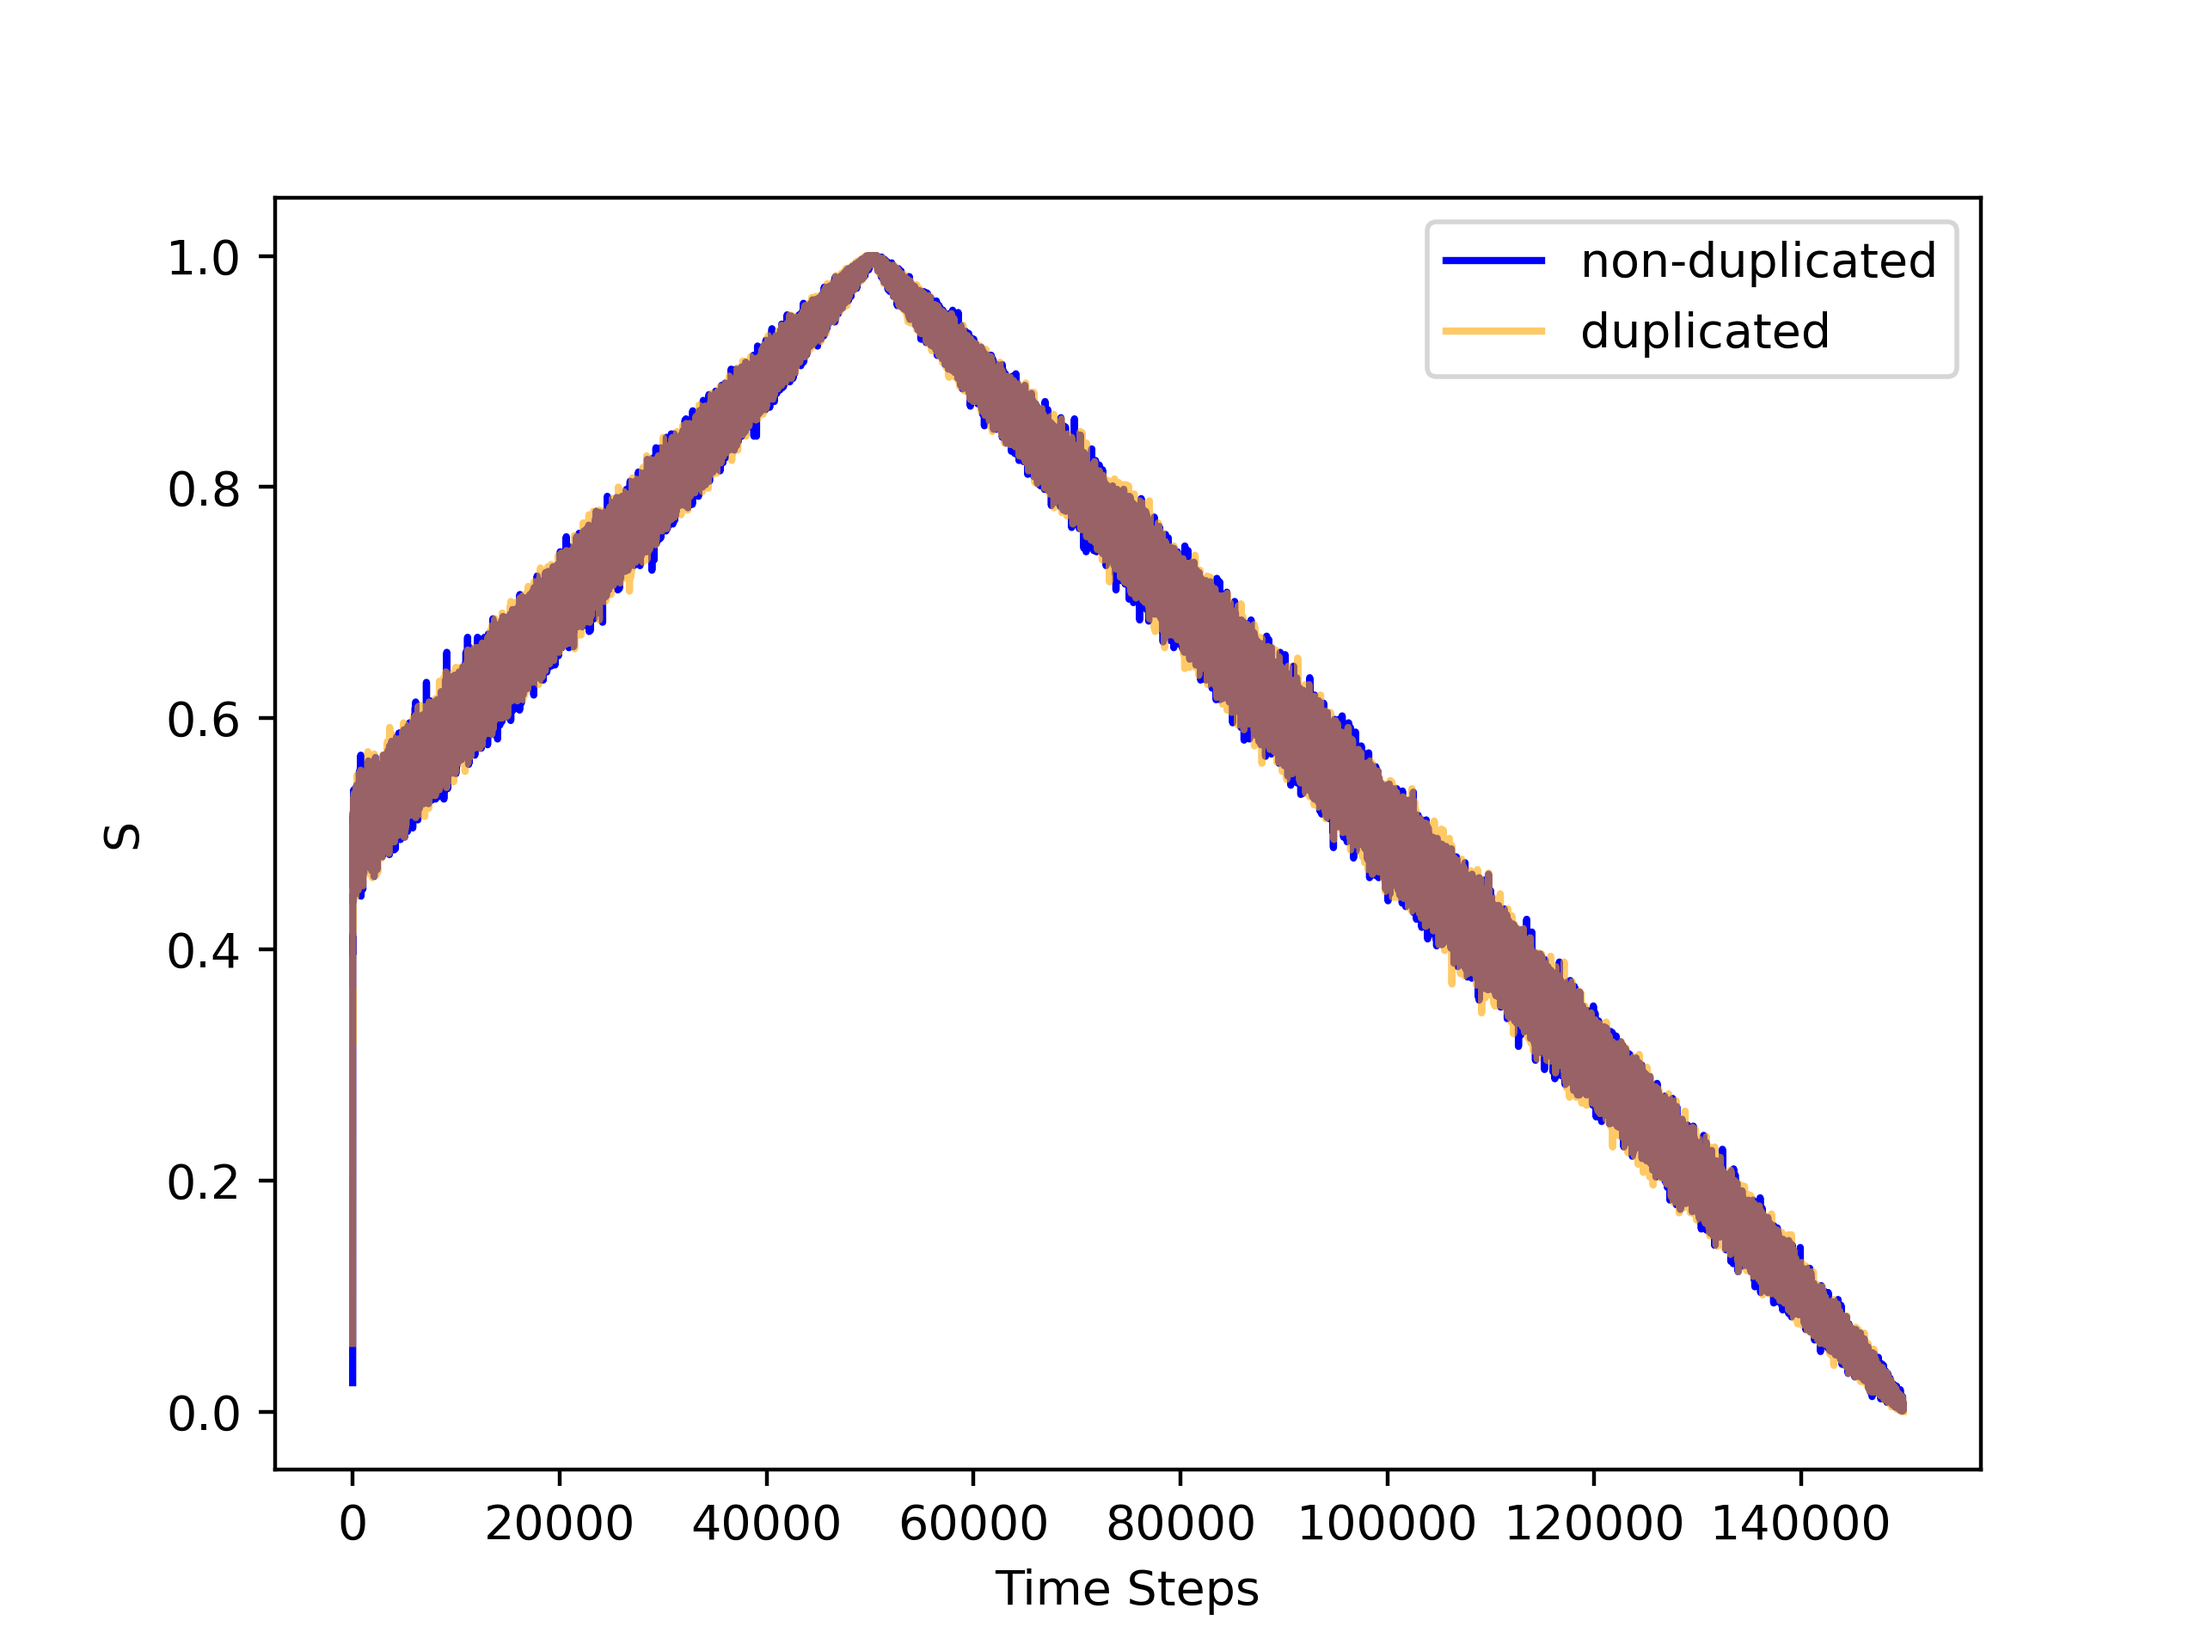
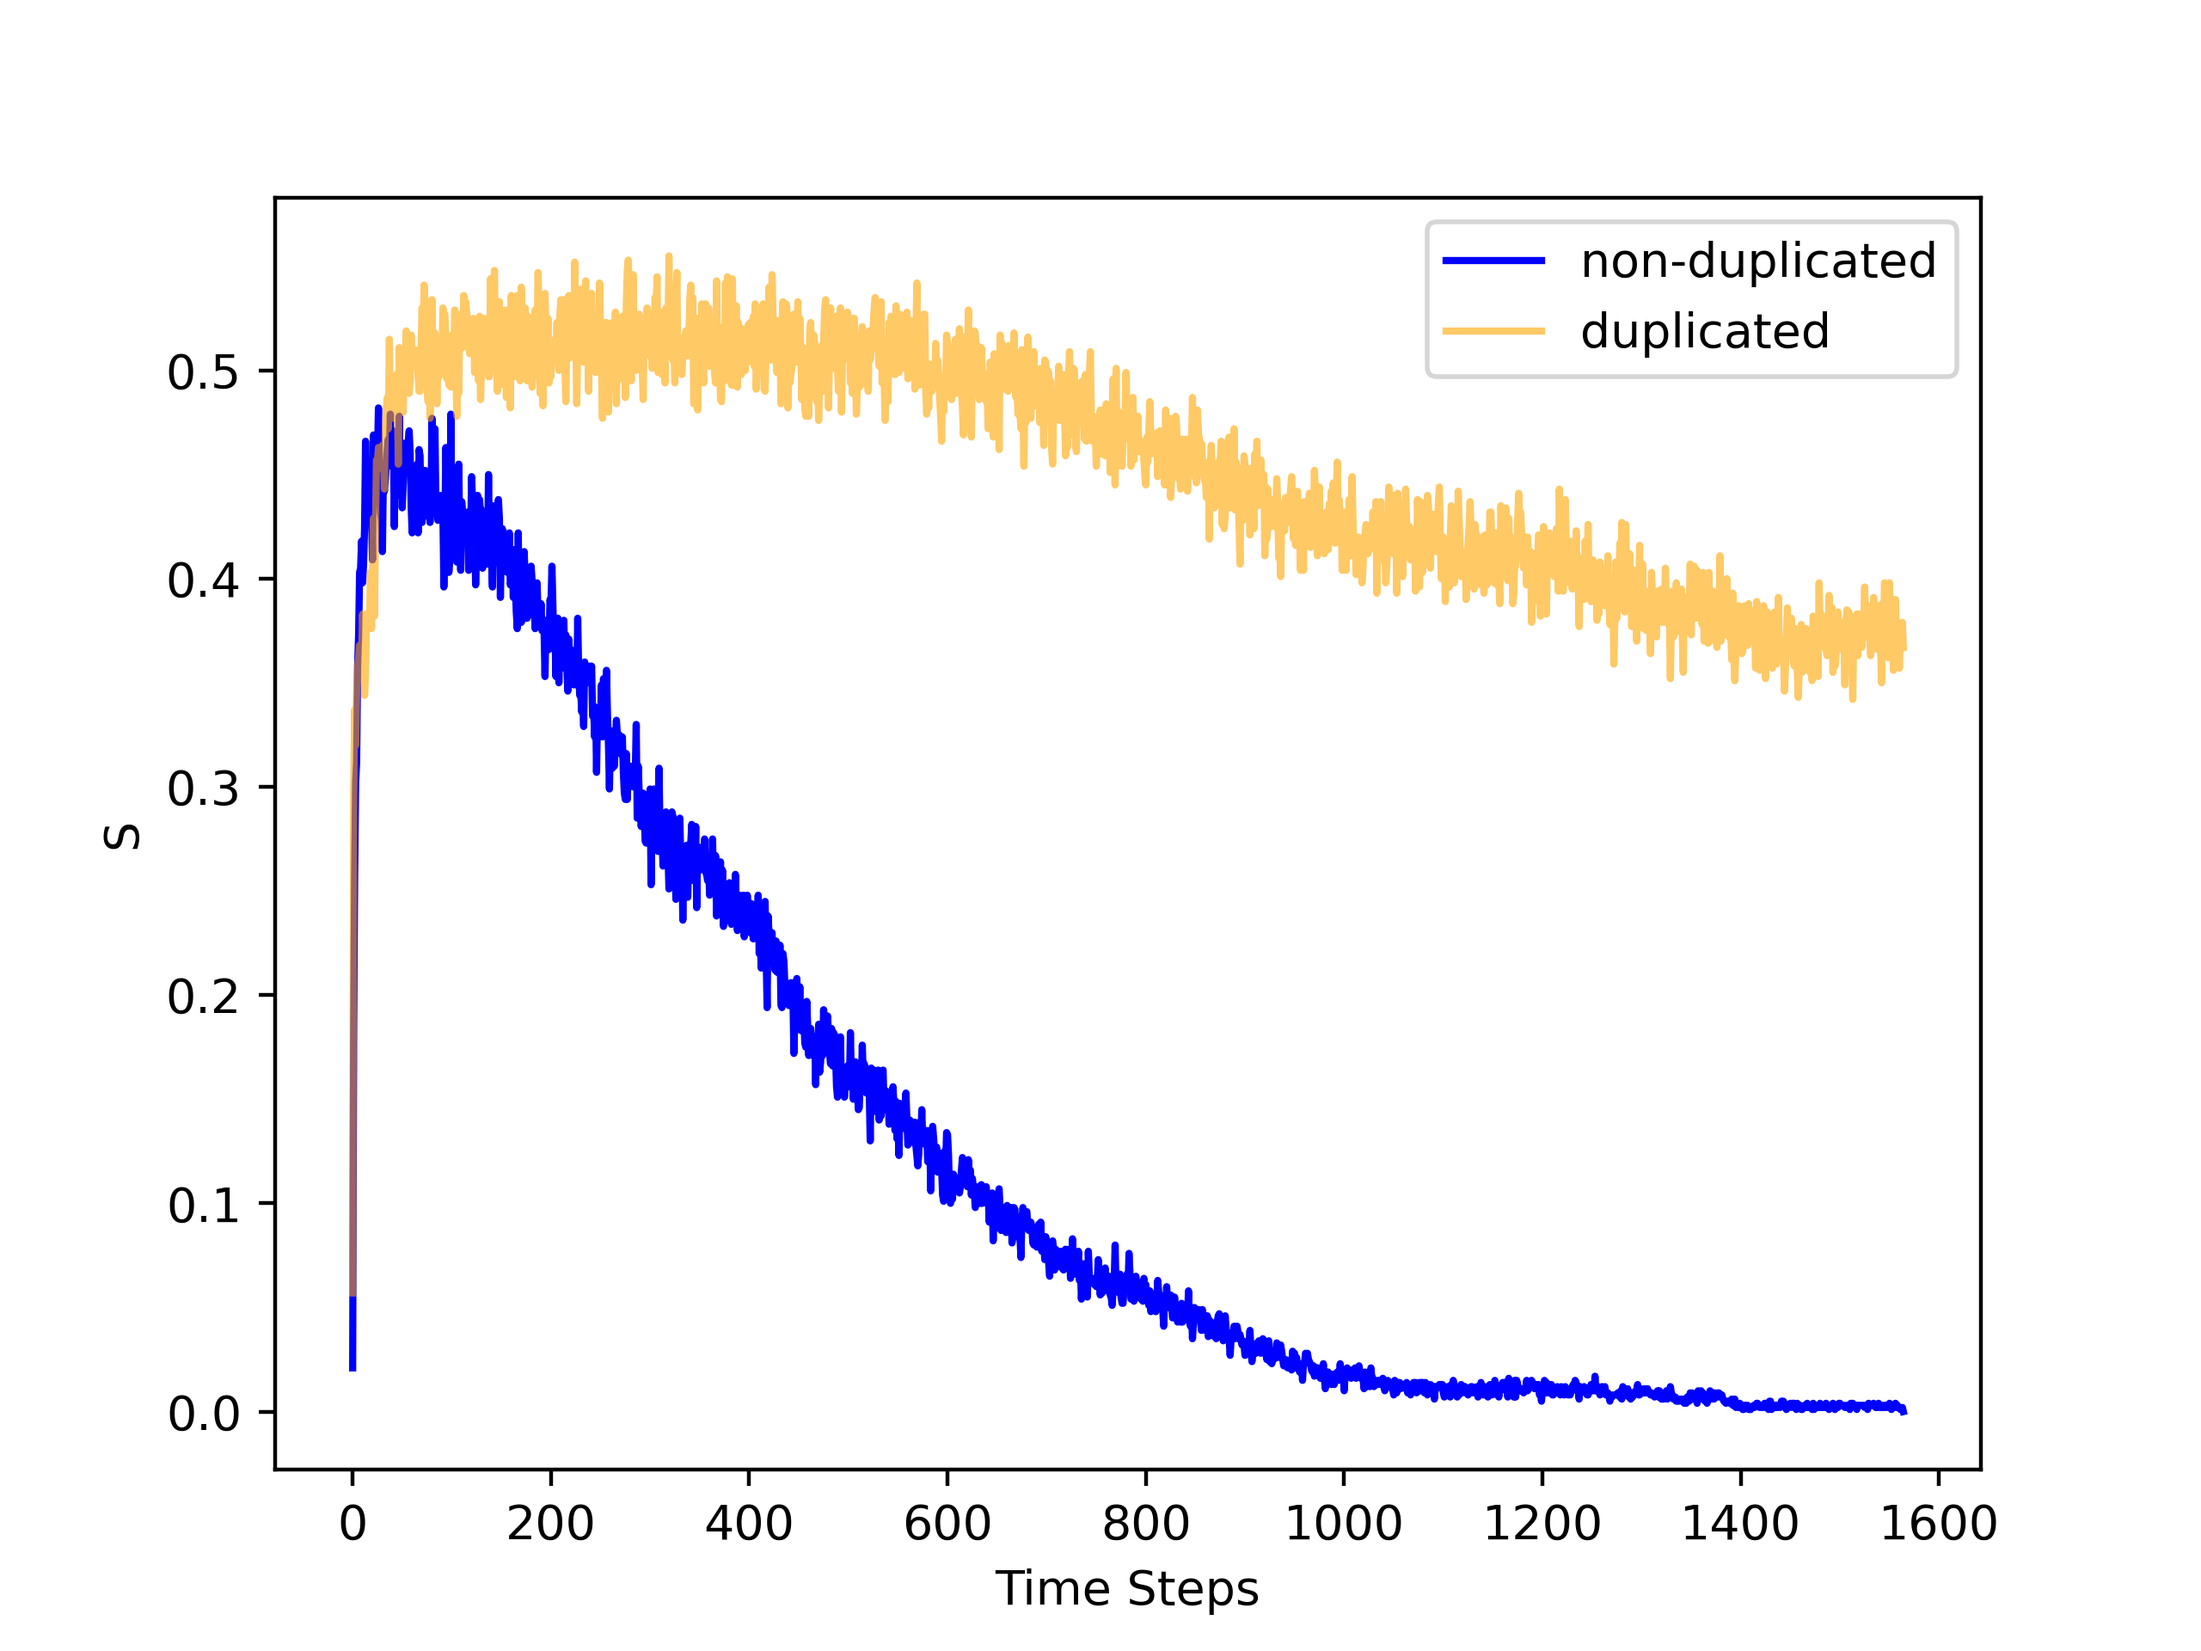
Now edges will be counted, networks with lower edges than half will be removed as well

diff --git a/Functions/base.cpp b/Functions/base.cpp
@@ -29,6 +29,11 @@ void genome::base (int N)
         du_Reader(du_location);
     }
     
+    Nedg = Nedg / number_networks;
+    du_Nedg = du_Nedg / number_networks;
+    du_Nedg = du_Nedg/2;
+    Nedg = Nedg / 2;
+
     for (int ini=0  ; ini < (2*step) ; ini++)
     {
         needed_networks = 0;
@@ -78,7 +83,7 @@ void genome::base (int N)
                 KAPA = evolve - parameters();
                 ne[pl].fitness = Fitness_func(KAPA);
                 
-                if (ne[pl].fitness >= ran2(&iseed))
+                if ((ne[pl].fitness >= ran2(&iseed)) && (ne[pl].edges > Nedg))
                 {
                     alive ++;
                     fit += ne[pl].fitness; 
@@ -93,7 +98,7 @@ void genome::base (int N)
             }
 
             //now the same upper block, but for the duplications
-            if (dn[pl].living == true)         //checking if the doubled network in that location is available ...
+            if (dn[pl].living == true )         //checking if the doubled network in that location is available ...
             {   
                 du_Mutation();
                 du_Evolution(evolve);
@@ -101,7 +106,7 @@ void genome::base (int N)
                 KAPA = Fitness_func(KAPA);
                 dn[pl].fitness = KAPA;
                 
-                if (dn[pl].fitness >= ran2(&iseed))
+                if ((dn[pl].fitness >= ran2(&iseed)) && (dn[pl].edges > du_Nedg))
                 {
                     du_alive ++; 
                     du_fit += dn[pl].fitness;

diff --git a/Functions/reader.cpp b/Functions/reader.cpp
@@ -11,7 +11,12 @@ void genome::Reader(string location)
         {
             NetWork>>ne[temp_net].adjac[j][k];
 
-            if (ne[temp_net].adjac[j][k] != 0)   connect (j, k, ne[temp_net].adjac[j][k], temp_net);
+            if (ne[temp_net].adjac[j][k] != 0)   
+            {
+                connect (j, k, ne[temp_net].adjac[j][k], temp_net);
+                Nedg++ ;
+                ne[temp_net].edges ++;
+            }
         }
     }
 
@@ -32,7 +37,12 @@ void genome::du_Reader(string du_location)
         {
             NetWork>>dn[temp_net].du_adjac[j][k];
             
-            if (dn[temp_net].du_adjac[j][k] != 0)    du_connect (j, k, dn[temp_net].du_adjac[j][k], temp_net);
+            if (dn[temp_net].du_adjac[j][k] != 0)    
+            {
+                du_connect (j, k, dn[temp_net].du_adjac[j][k], temp_net);
+                du_Nedg++ ;
+                dn[temp_net].edges ++;
+            }
         }
     }
 

diff --git a/Functions/du_mutation.cpp b/Functions/du_mutation.cpp
@@ -17,7 +17,6 @@ void genome::du_Mutation()
             {
                 int f = ran2(&iseed) * dn[s].du[i].nghbrs.size();
                 f = dn[s].du[i].nghbrs[f];
-
                 dn[s].du_adjac [i][f] = gasdev(&iseed);
             }
 
@@ -32,6 +31,7 @@ void genome::du_Mutation()
                     {
                         du_connect(i, f, gasdev(&iseed),s);
                         temmpy = false;
+                        dn[s].edges ++;
                     }                
                 }
 
@@ -43,7 +43,7 @@ void genome::du_Mutation()
                 int FE = dn[s].du[i].nghbrs[f];
                 dn[s].du[i].nghbrs.erase(dn[s].du[i].nghbrs.begin() + f);
                 dn[s].du_adjac[i][FE] = 0;
-                
+                dn[s].edges --;
                 auto it = find (dn[s].du[FE].Connected.begin(), dn[s].du[FE].Connected.end(), i);
                 
                 dn[s].du[FE].Connected.erase(it);

diff --git a/Functions/Mutation.cpp b/Functions/Mutation.cpp
@@ -32,6 +32,7 @@ void genome::Mutation()
                     {
                         connect(i, f, gasdev(&iseed), s);
                         temmpy = false;
+                        ne[s].edges ++;
                     }                
                 }
 
@@ -43,7 +44,7 @@ void genome::Mutation()
                 int FE = ne[s].gn[i].nghbrs[f];
                 ne[s].gn[i].nghbrs.erase(ne[s].gn[i].nghbrs.begin() + f);
                 ne[s].adjac[i][FE] = 0;
-                
+                ne[s].edges --;
                 
                 auto it = find (ne[s].gn[FE].Connected.begin(), ne[s].gn[FE].Connected.end(), i);
                 

diff --git a/net_char.py b/net_char.py
@@ -163,8 +163,8 @@ networks_by_step = read_multiple_networks(file_path)
 
 # Specify the output file path
 output_file_path = './Outputs/00Net_analysis.txt'
-step_to_plot = 1200
-network_number_to_plot = 700
+step_to_plot = 1400
+network_number_to_plot = 400
 
 # Calculate and write the network analysis parameters to the output file
 write_network_analysis(output_file_path, networks_by_step, step_to_plot, network_number_to_plot)

diff --git a/Functions/setting_initial_values.cpp b/Functions/setting_initial_values.cpp
@@ -21,6 +21,9 @@ int genome::Setting_initial_values(int N)
     
     n = N;
     nn = 2*n;
+
+    Nedg = 0;
+    du_Nedg = 0;
     
     ne = new Net [number_networks];
     dn = new dNet [number_networks];

diff --git a/Headers/DU_net_gene.hpp b/Headers/DU_net_gene.hpp
@@ -15,6 +15,7 @@ class dNet
         bool living;
         int nn;
         bool unique;
+        int edges;
         
         dNet(){};
         

diff --git a/Headers/Genome.hpp b/Headers/Genome.hpp
@@ -39,6 +39,9 @@ class genome
     Net* ne;
     dNet* dn;
     
+    int Nedg;
+    int du_Nedg;
+
     int alive;
     int du_alive;
 

diff --git a/Headers/Net_gene.hpp b/Headers/Net_gene.hpp
@@ -13,6 +13,7 @@ public:
     bool living;
     int n;
     bool unique;
+    int edges;
     
     Net(){};
 
